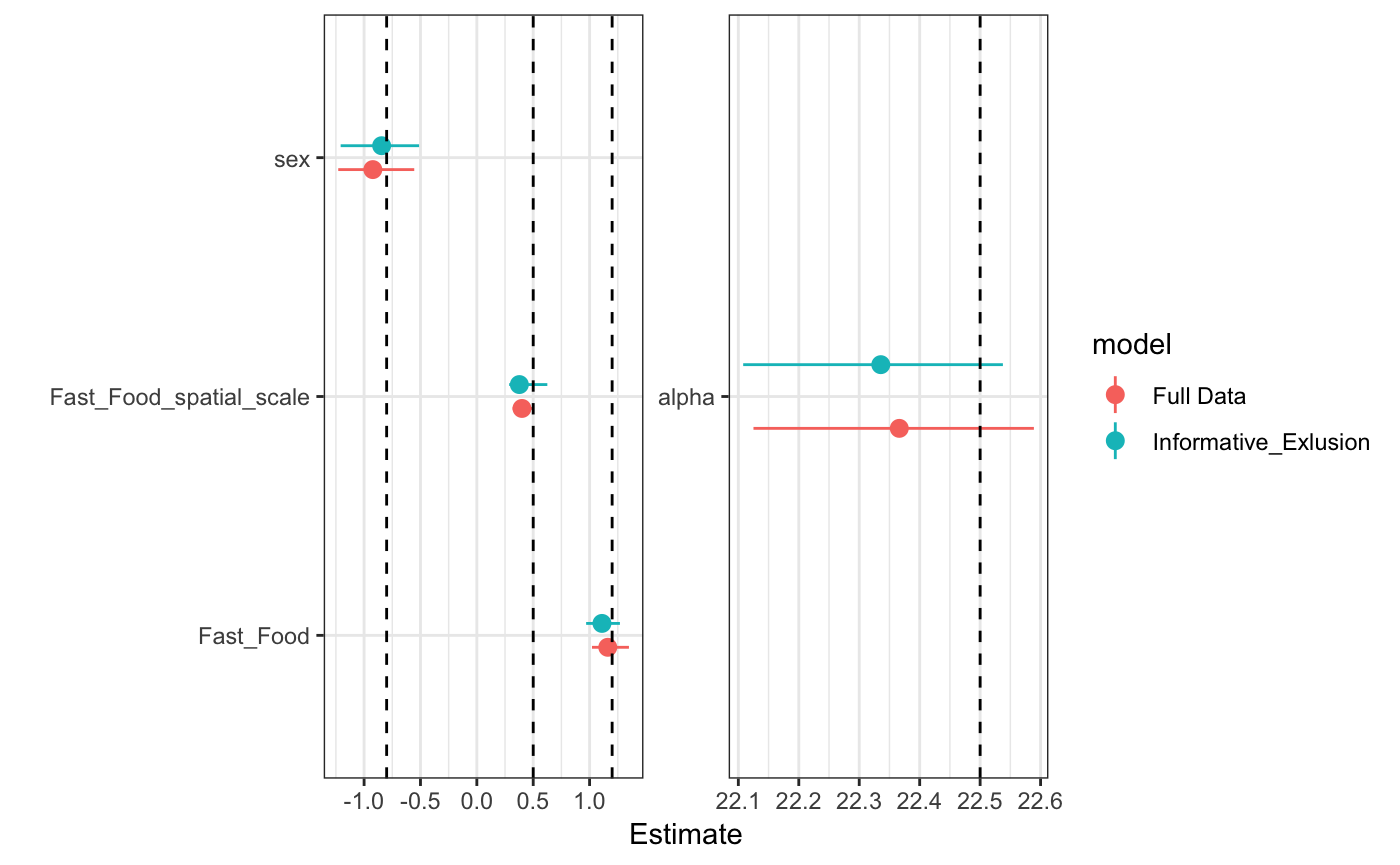
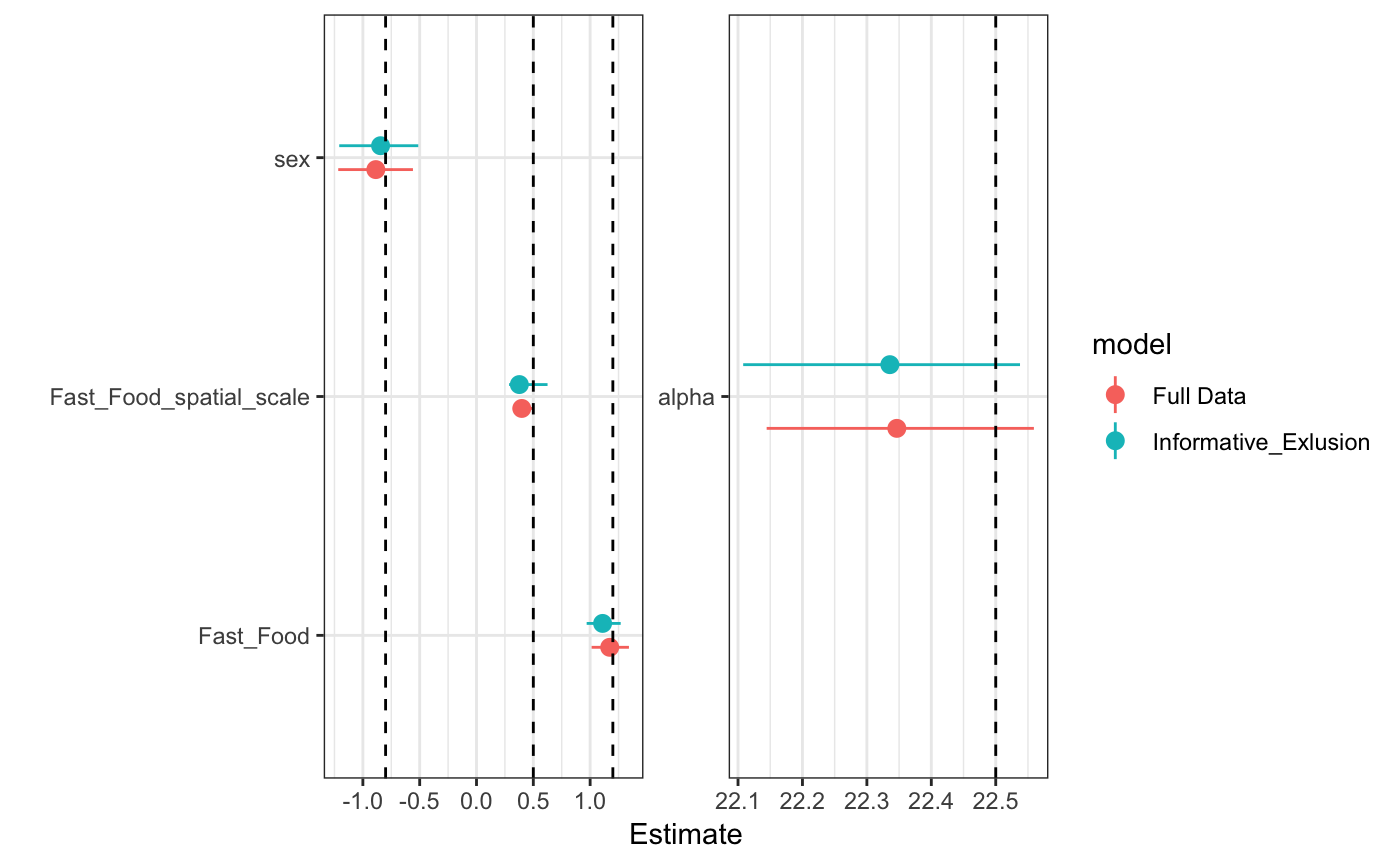
updates to Intro vignette

diff --git a/docs/articles/Introduction.html b/docs/articles/Introduction.html
@@ -250,31 +250,7 @@ distance_data <span class="op">%&gt;%</span><span class="st"> </span><span class
                 <span class="dt">prior_stap =</span> <span class="kw"><a href="../reference/priors.html">normal</a></span>(<span class="dt">location =</span> <span class="dv">0</span>, <span class="dt">scale =</span> <span class="dv">3</span>, <span class="dt">autoscale =</span> F),
                 <span class="dt">prior_theta =</span> <span class="kw"><a href="../reference/priors.html">log_normal</a></span>(<span class="dt">location =</span> <span class="dv">1</span>, <span class="dt">scale =</span> <span class="dv">1</span>), 
                 <span class="dt">prior_aux =</span> <span class="kw"><a href="../reference/priors.html">cauchy</a></span>(<span class="dt">location =</span> <span class="dv">0</span>,<span class="dt">scale =</span> <span class="dv">5</span>),
-                <span class="dt">max_distance =</span> <span class="kw">max</span>(dists), <span class="dt">chains =</span> <span class="dv">1</span>, <span class="dt">iter =</span> <span class="fl">6E2</span>) ## include all data
-<span class="co">#&gt; </span>
-<span class="co">#&gt; SAMPLING FOR MODEL 'stap_continuous' NOW (CHAIN 1).</span>
-<span class="co">#&gt; </span>
-<span class="co">#&gt; Gradient evaluation took 0.004751 seconds</span>
-<span class="co">#&gt; 1000 transitions using 10 leapfrog steps per transition would take 47.51 seconds.</span>
-<span class="co">#&gt; Adjust your expectations accordingly!</span>
-<span class="co">#&gt; </span>
-<span class="co">#&gt; </span>
-<span class="co">#&gt; Iteration:   1 / 600 [  0%]  (Warmup)</span>
-<span class="co">#&gt; Iteration:  60 / 600 [ 10%]  (Warmup)</span>
-<span class="co">#&gt; Iteration: 120 / 600 [ 20%]  (Warmup)</span>
-<span class="co">#&gt; Iteration: 180 / 600 [ 30%]  (Warmup)</span>
-<span class="co">#&gt; Iteration: 240 / 600 [ 40%]  (Warmup)</span>
-<span class="co">#&gt; Iteration: 300 / 600 [ 50%]  (Warmup)</span>
-<span class="co">#&gt; Iteration: 301 / 600 [ 50%]  (Sampling)</span>
-<span class="co">#&gt; Iteration: 360 / 600 [ 60%]  (Sampling)</span>
-<span class="co">#&gt; Iteration: 420 / 600 [ 70%]  (Sampling)</span>
-<span class="co">#&gt; Iteration: 480 / 600 [ 80%]  (Sampling)</span>
-<span class="co">#&gt; Iteration: 540 / 600 [ 90%]  (Sampling)</span>
-<span class="co">#&gt; Iteration: 600 / 600 [100%]  (Sampling)</span>
-<span class="co">#&gt; </span>
-<span class="co">#&gt;  Elapsed Time: 16.2483 seconds (Warm-up)</span>
-<span class="co">#&gt;                10.2762 seconds (Sampling)</span>
-<span class="co">#&gt;                26.5245 seconds (Total)</span></code></pre></div>
+                <span class="dt">max_distance =</span> <span class="kw">max</span>(dists), <span class="dt">chains =</span> <span class="dv">4</span>, <span class="dt">iter =</span> <span class="fl">2E3</span>, <span class="dt">cores =</span> <span class="dv">4</span>) ## include all data</code></pre></div>
 <p>We’ll first look at the quick summary contained in the model’s print-out</p>
 <div class="sourceCode"><pre class="sourceCode r"><code class="sourceCode r">fit
 <span class="co">#&gt; stap_glm</span>
@@ -287,7 +263,7 @@ distance_data <span class="op">%&gt;%</span><span class="st"> </span><span class
 <span class="co">#&gt;  temporal predictors:  0</span>
 <span class="co">#&gt; ------</span>
 <span class="co">#&gt;                         Median MAD_SD</span>
-<span class="co">#&gt; (Intercept)             22.4    0.1  </span>
+<span class="co">#&gt; (Intercept)             22.3    0.1  </span>
 <span class="co">#&gt; sexF                    -0.9    0.2  </span>
 <span class="co">#&gt; Fast_Food                1.2    0.1  </span>
 <span class="co">#&gt; Fast_Food_spatial_scale  0.4    0.1  </span>
@@ -312,19 +288,19 @@ distance_data <span class="op">%&gt;%</span><span class="st"> </span><span class
 <span class="co">#&gt;  family:       gaussian [identity]</span>
 <span class="co">#&gt;  formula:      y ~ sex + sap(Fast_Food)</span>
 <span class="co">#&gt;  priors:       see help('prior_summary')</span>
-<span class="co">#&gt;  sample:       300 (posterior sample size)</span>
+<span class="co">#&gt;  sample:       4000 (posterior sample size)</span>
 <span class="co">#&gt;  observations: 550</span>
 <span class="co">#&gt;  Spatial Predictors:   1</span>
 <span class="co">#&gt; </span>
 <span class="co">#&gt; Estimates:</span>
 <span class="co">#&gt;                           mean    sd      2.5%    25%     50%     75%  </span>
-<span class="co">#&gt; (Intercept)                22.4     0.1    22.1    22.3    22.4    22.4</span>
+<span class="co">#&gt; (Intercept)                22.3     0.1    22.1    22.3    22.3    22.4</span>
 <span class="co">#&gt; sexF                       -0.9     0.2    -1.3    -1.0    -0.9    -0.8</span>
 <span class="co">#&gt; Fast_Food                   1.2     0.1     1.0     1.1     1.2     1.2</span>
 <span class="co">#&gt; Fast_Food_spatial_scale     0.4     0.1     0.3     0.4     0.4     0.4</span>
-<span class="co">#&gt; sigma                       2.3     0.1     2.2     2.3     2.3     2.3</span>
+<span class="co">#&gt; sigma                       2.3     0.1     2.2     2.2     2.3     2.3</span>
 <span class="co">#&gt; mean_PPD                   22.0     0.1    21.7    21.9    22.0    22.1</span>
-<span class="co">#&gt; log-posterior           -1246.1     1.6 -1250.0 -1247.1 -1245.8 -1244.9</span>
+<span class="co">#&gt; log-posterior           -1246.1     1.6 -1250.1 -1247.0 -1245.8 -1244.9</span>
 <span class="co">#&gt;                           97.5%</span>
 <span class="co">#&gt; (Intercept)                22.6</span>
 <span class="co">#&gt; sexF                       -0.5</span>
@@ -336,13 +312,13 @@ distance_data <span class="op">%&gt;%</span><span class="st"> </span><span class
 <span class="co">#&gt; </span>
 <span class="co">#&gt; Diagnostics:</span>
 <span class="co">#&gt;                         mcse Rhat n_eff</span>
-<span class="co">#&gt; (Intercept)             0.0  1.0  300  </span>
-<span class="co">#&gt; sexF                    0.0  1.0  300  </span>
-<span class="co">#&gt; Fast_Food               0.0  1.0  300  </span>
-<span class="co">#&gt; Fast_Food_spatial_scale 0.0  1.0  300  </span>
-<span class="co">#&gt; sigma                   0.0  1.0  300  </span>
-<span class="co">#&gt; mean_PPD                0.0  1.0  300  </span>
-<span class="co">#&gt; log-posterior           0.1  1.0  126  </span>
+<span class="co">#&gt; (Intercept)             0.0  1.0  4000 </span>
+<span class="co">#&gt; sexF                    0.0  1.0  4000 </span>
+<span class="co">#&gt; Fast_Food               0.0  1.0  4000 </span>
+<span class="co">#&gt; Fast_Food_spatial_scale 0.0  1.0  4000 </span>
+<span class="co">#&gt; sigma                   0.0  1.0  4000 </span>
+<span class="co">#&gt; mean_PPD                0.0  1.0  4000 </span>
+<span class="co">#&gt; log-posterior           0.0  1.0  1844 </span>
 <span class="co">#&gt; </span>
 <span class="co">#&gt; For each parameter, mcse is Monte Carlo standard error, n_eff is a crude measure of effective sample size, and Rhat is the potential scale reduction factor on split chains (at convergence Rhat=1).</span></code></pre></div>
 <p>Checking our estimates, the model captures the true values very well. <img src="Introduction_files/figure-html/results_1-1.png" width="700"></p>
@@ -367,31 +343,7 @@ distance_data <span class="op">%&gt;%</span><span class="st"> </span><span class
                 <span class="dt">prior_stap =</span> <span class="kw"><a href="../reference/priors.html">normal</a></span>(<span class="dt">location =</span> <span class="dv">0</span>, <span class="dt">scale =</span> <span class="dv">3</span>, <span class="dt">autoscale =</span> F),
                 <span class="dt">prior_theta =</span> <span class="kw"><a href="../reference/priors.html">log_normal</a></span>(<span class="dt">location =</span> <span class="dv">1</span>, <span class="dt">scale =</span> <span class="dv">1</span>), 
                 <span class="dt">prior_aux =</span> <span class="kw"><a href="../reference/priors.html">cauchy</a></span>(<span class="dt">location =</span> <span class="dv">0</span>,<span class="dt">scale =</span> <span class="dv">5</span>),
-                <span class="dt">max_distance =</span> <span class="fl">1.25</span>, <span class="dt">chains =</span> <span class="dv">1</span>, <span class="dt">iter =</span> <span class="fl">6E2</span>)
-<span class="co">#&gt; </span>
-<span class="co">#&gt; SAMPLING FOR MODEL 'stap_continuous' NOW (CHAIN 1).</span>
-<span class="co">#&gt; </span>
-<span class="co">#&gt; Gradient evaluation took 0.001519 seconds</span>
-<span class="co">#&gt; 1000 transitions using 10 leapfrog steps per transition would take 15.19 seconds.</span>
-<span class="co">#&gt; Adjust your expectations accordingly!</span>
-<span class="co">#&gt; </span>
-<span class="co">#&gt; </span>
-<span class="co">#&gt; Iteration:   1 / 600 [  0%]  (Warmup)</span>
-<span class="co">#&gt; Iteration:  60 / 600 [ 10%]  (Warmup)</span>
-<span class="co">#&gt; Iteration: 120 / 600 [ 20%]  (Warmup)</span>
-<span class="co">#&gt; Iteration: 180 / 600 [ 30%]  (Warmup)</span>
-<span class="co">#&gt; Iteration: 240 / 600 [ 40%]  (Warmup)</span>
-<span class="co">#&gt; Iteration: 300 / 600 [ 50%]  (Warmup)</span>
-<span class="co">#&gt; Iteration: 301 / 600 [ 50%]  (Sampling)</span>
-<span class="co">#&gt; Iteration: 360 / 600 [ 60%]  (Sampling)</span>
-<span class="co">#&gt; Iteration: 420 / 600 [ 70%]  (Sampling)</span>
-<span class="co">#&gt; Iteration: 480 / 600 [ 80%]  (Sampling)</span>
-<span class="co">#&gt; Iteration: 540 / 600 [ 90%]  (Sampling)</span>
-<span class="co">#&gt; Iteration: 600 / 600 [100%]  (Sampling)</span>
-<span class="co">#&gt; </span>
-<span class="co">#&gt;  Elapsed Time: 10.9411 seconds (Warm-up)</span>
-<span class="co">#&gt;                5.36801 seconds (Sampling)</span>
-<span class="co">#&gt;                16.3091 seconds (Total)</span></code></pre></div>
+                <span class="dt">max_distance =</span> <span class="fl">1.25</span>, <span class="dt">chains =</span> <span class="dv">4</span>, <span class="dt">iter =</span> <span class="fl">2E3</span>, <span class="dt">cores =</span> <span class="dv">4</span>)</code></pre></div>
 <p>We excluded about half of the total data (not exactly even across individuals)</p>
 <div class="sourceCode"><pre class="sourceCode r"><code class="sourceCode r"><span class="kw">sum</span>(dists<span class="op">&lt;=</span><span class="fl">1.25</span>)<span class="op">/</span><span class="kw">sum</span>(dists<span class="op">&gt;=</span><span class="dv">0</span>) 
 <span class="co">#&gt; [1] 0.4793719</span></code></pre></div>
@@ -462,31 +414,7 @@ fit &lt;-<span class="st"> </span><span class="kw"><a href="../reference/stap_gl
                 <span class="dt">prior_stap =</span> <span class="kw"><a href="../reference/priors.html">normal</a></span>(<span class="dt">location =</span> <span class="dv">0</span>, <span class="dt">scale =</span> <span class="dv">3</span>, <span class="dt">autoscale =</span> F),
                 <span class="dt">prior_theta =</span> <span class="kw"><a href="../reference/priors.html">log_normal</a></span>(<span class="dt">location =</span> <span class="dv">0</span>, <span class="dt">scale =</span> <span class="dv">1</span>), 
                 <span class="dt">prior_aux =</span> <span class="kw"><a href="../reference/priors.html">cauchy</a></span>(<span class="dt">location =</span> <span class="dv">0</span>,<span class="dt">scale =</span> <span class="dv">5</span>),
-                <span class="dt">max_distance =</span> <span class="kw">max</span>(dists), <span class="dt">chains =</span> <span class="dv">1</span>, <span class="dt">iter =</span> <span class="fl">6E2</span>)  ## including unneccessary data
-<span class="co">#&gt; </span>
-<span class="co">#&gt; SAMPLING FOR MODEL 'stap_continuous' NOW (CHAIN 1).</span>
-<span class="co">#&gt; </span>
-<span class="co">#&gt; Gradient evaluation took 0.011272 seconds</span>
-<span class="co">#&gt; 1000 transitions using 10 leapfrog steps per transition would take 112.72 seconds.</span>
-<span class="co">#&gt; Adjust your expectations accordingly!</span>
-<span class="co">#&gt; </span>
-<span class="co">#&gt; </span>
-<span class="co">#&gt; Iteration:   1 / 600 [  0%]  (Warmup)</span>
-<span class="co">#&gt; Iteration:  60 / 600 [ 10%]  (Warmup)</span>
-<span class="co">#&gt; Iteration: 120 / 600 [ 20%]  (Warmup)</span>
-<span class="co">#&gt; Iteration: 180 / 600 [ 30%]  (Warmup)</span>
-<span class="co">#&gt; Iteration: 240 / 600 [ 40%]  (Warmup)</span>
-<span class="co">#&gt; Iteration: 300 / 600 [ 50%]  (Warmup)</span>
-<span class="co">#&gt; Iteration: 301 / 600 [ 50%]  (Sampling)</span>
-<span class="co">#&gt; Iteration: 360 / 600 [ 60%]  (Sampling)</span>
-<span class="co">#&gt; Iteration: 420 / 600 [ 70%]  (Sampling)</span>
-<span class="co">#&gt; Iteration: 480 / 600 [ 80%]  (Sampling)</span>
-<span class="co">#&gt; Iteration: 540 / 600 [ 90%]  (Sampling)</span>
-<span class="co">#&gt; Iteration: 600 / 600 [100%]  (Sampling)</span>
-<span class="co">#&gt; </span>
-<span class="co">#&gt;  Elapsed Time: 35.9221 seconds (Warm-up)</span>
-<span class="co">#&gt;                22.7868 seconds (Sampling)</span>
-<span class="co">#&gt;                58.709 seconds (Total)</span></code></pre></div>
+                <span class="dt">max_distance =</span> <span class="kw">max</span>(dists), <span class="dt">chains =</span> <span class="dv">4</span>, <span class="dt">cores =</span> <span class="dv">4</span>, <span class="dt">iter =</span> <span class="fl">2E3</span>)  ## including unneccessary data</code></pre></div>
 <div class="sourceCode"><pre class="sourceCode r"><code class="sourceCode r">edf &lt;-<span class="st"> </span><span class="kw">cbind</span>(<span class="kw"><a href="../reference/posterior_interval.stapreg.html">posterior_interval</a></span>(fit)[<span class="dv">1</span><span class="op">:</span><span class="dv">4</span>,<span class="dv">1</span>],<span class="kw">coef</span>(fit),<span class="kw"><a href="../reference/posterior_interval.stapreg.html">posterior_interval</a></span>(fit)[<span class="dv">1</span><span class="op">:</span><span class="dv">4</span>,<span class="dv">2</span>],
       <span class="kw">c</span>(alpha,delta,beta,theta)) <span class="op">%&gt;%</span><span class="st"> </span>
 <span class="st">    </span><span class="kw"><a href="http://dplyr.tidyverse.org/reference/reexports.html">as_data_frame</a></span>() <span class="op">%&gt;%</span><span class="st"> </span><span class="kw"><a href="http://dplyr.tidyverse.org/reference/mutate.html">transmute</a></span>(<span class="dt">lower=</span> V1, 
